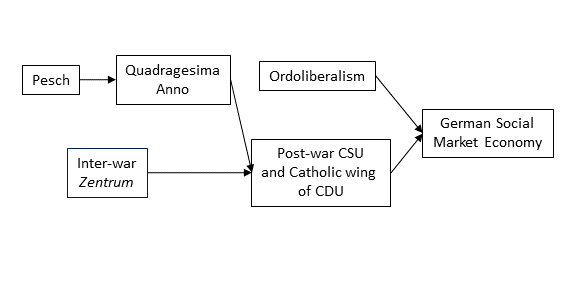
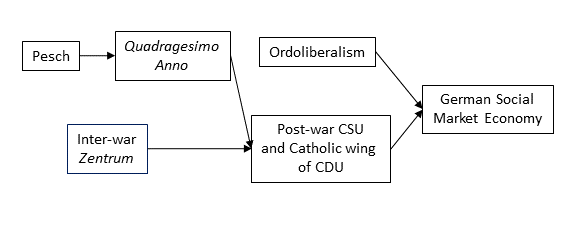
Correct typos

diff --git a/main.tex b/main.tex
@@ -28,7 +28,7 @@
 
 \doublespacing
 \begin{abstract}
-The Rev. Heinrich Pesch, S.J. was a German economist and social philosopher who was an active scholar from the 1890s to 1930s.  His work had a significant impact on a generation of German Catholic social thinkers and particularly the encyclical Quadragesmio Anno.  His method of social analysis, which he called Solidarism, was informed by Catholic Social Thought, but based on natural law principles that he argued were accessible to all people of good will.  This article argues that, although his school of thought did not survive the Nazi and World War II years, many of his ideas had a lingering effect on Economic thought for the German center-right.  This influence may be contrasted with the center-right in the English-speaking world, where there was a strong divorce between Christian social thinking and Economics.  Consequently, a gap emerged between Economic policy in Germany and Britain, that contributed to some of the divides leading to Brexit.
+The Rev. Heinrich Pesch, S.J. was a German economist and social philosopher who was an active scholar from the 1890s to 1930s.  His work had a significant impact on a generation of German Catholic social thinkers and particularly the encyclical \emph{Quadragesimo Anno}.  His method of social analysis, which he called Solidarism, was informed by Catholic Social Thought, but based on natural law principles that he argued were accessible to all people of good will.  This article argues that, although his school of thought did not survive the Nazi and World War II years, many of his ideas had a lingering effect on Economic thought for the German center-right.  This influence may be contrasted with the center-right in the English-speaking world, where there was a strong divorce between Christian social thinking and Economics.  Consequently, a gap emerged between Economic policy in Germany and Britain, that contributed to some of the divides leading to Brexit.
 
 \textbf{Keywords:}  Heinrich Pesch, Catholic Social Thought, Solidarism, Brexit
 
@@ -38,7 +38,7 @@ The Rev. Heinrich Pesch, S.J. was a German economist and social philosopher who 
 
 \section{Introduction}
 
-The Rev. Heinrich Pesch, S.J. was a German economist and social philosopher who was active as a scholar between the 1890s and 1920s.  While he is relatively little known in the English-speaking world today, his views influenced a generation of German Catholic social thinkers, culminating in Pope Pius XI’s encyclical \emph{Quadragesimo Anno}, which was published five years after his death.  The social philosophy that he espoused, called Solidarism, proceeded from his study of Economics and the relatively nascent field of modern Catholic Social Teaching.  In it, he attempted to derive a method of social analysis that would avoid the two major competing ideologies of his day, individualist liberalism, and Marxist socialism.  Against these currents of thought, he proposed the bonds of social solidarity combined with subsidiarity as a means of combatting modern ills.\medskip
+The Rev. Heinrich Pesch, S.J. was a German economist and social philosopher who was active as a scholar between the 1890s and 1920s.  While he is relatively little known in the English-speaking world today, his views influenced a generation of German Catholic social thinkers, culminating in Pope Pius XI’s encyclical \emph{Quadragesimo Anno}, which was published five years after his death.  The social philosophy that he espoused, called Solidarism, proceeded from his study of Economics and the relatively nascent field of modern Catholic Social Teaching.  In it, he attempted to derive a method of social analysis that would avoid the two major competing ideologies of his day, individualist liberalism, and Marxist socialism.  Against these currents of thought, he proposed the bonds of social solidarity combined with subsidiarity as a means of combating modern ills.\medskip
 
 As this essay will show, although the system of Solidarism did not survive the Nazi era and World War II in Germany, it had a continuing impact on the economic thinking of the center-right in Germany.  This difference is in sharp contrast to the influence of Anglican economic thought on the British center-right.  As will be demonstrated below, there was a relatively early separation of economic and theology amongst Anglicans, which caused the British right to evolve in a more laissez-faire direction.  In contrast, the work of Catholic social thinkers like Pesch helped to create a strain of economic thinking on the German right that was closely tied to theology.  We can see this influence in the types of economic institutions set up in Germany in the post-war era, such as the workers’ councils and the social market system.  As a result, Pesch’s economic thought has an enduring effect in Germany and through this channel, the economic policies of the European Union.\medskip
 
@@ -107,7 +107,7 @@ Pesch was echoing to a large degree the arguments found in \emph{Rerum Novarum} 
 
 An interesting application of the theory of the just price in Pesch’s writings is his perspective on usury.  The medieval Church and its scholars did not permit the taking of interest on a loan, but the modern Church, in practice, does not seem to object to moderate rates of interest.  Pesch saw this phenomenon, not as a change in Church doctrine, but rather as a legitimate development due to changes in economic circumstances.  His contention was that, in the medieval era, the relative lack of economic growth and investment in capital meant that the was no real opportunity cost to lending for those who had a surplus of money, and thus no justification for a return to them for doing so.  However, the development of a modern economy meant that there was a general opportunity to make gains through the investment of funds, and therefore, lending money now represented a real sacrifice on the part of those with excess funds.\footnote{For a further discussion on Pesch’s theory of interest and usury, see the appendix to chapter 5 in \citet{mulcahy1952}.}  Similarly, we can say that changes in opportunities for exchange due to an opening of trade may legitimately change the exchange values of goods, and thus, their just prices.  This perspective is different from neoclassical economists who posit a ‘time-value’ of money or ‘reward for abstinence’ that justifies the taking of interest on a loan.  Pesch argued that there is no intrinsic time-value to money, but rather that the general opportunity to make gains through investment over time is what gives money such a time-value.\medskip
 
-From the discussion above, one might be tempted to conclude that Pesch was fundamentally hostile to economic thought generally.  He claims that ``Both sciences [Economics and Ethics] have a lot to learn from each other.  However, that is not the same as saying that Economics can cut itself off from the moral law, or even abstract from it." \citep[chap. 10]{pesch2004}  Economics, as an autonomous science, contributes a lot to our understanding of the conditions for material prosperity.  But, as one educated in the Thomistic tradition, Pesch argued that truth could not contradict truth.  Something could not be simultaneously economically correct and ethically incorrect.  Hence, Economics can make a contribution to human reason by helping us to better understand the implications of policies and actions affecting material well-being, but it cannot at the same time divorce itself from Ethical imperatives.\medskip
+From the discussion above, one might be tempted to conclude that Pesch was fundamentally hostile to economic thought generally.  He claims that ``Both sciences [Economics and Ethics] have a lot to learn from each other.  However, that is not the same as saying that Economics can cut itself off from the moral law, or even abstract from it." \citep[chap. 10]{pesch2004}  Furthermore, moral theology is not sufficient by itself to create an economic system:  ``Religion cannot produce grain; it cannot do away with physical ills."\footnote{Quoted in \citet[p. 151]{mueller1951}.}  Economics, as an autonomous science, contributes a lot to our understanding of the conditions for material prosperity.  But, as one educated in the Thomistic tradition, Pesch argued that truth could not contradict truth.  Something could not be simultaneously economically correct and ethically incorrect.  Hence, Economics can make a contribution to human reason by helping us to better understand the implications of policies and actions affecting material well-being, but it cannot at the same time divorce itself from ethical imperatives.\medskip
 
 In summary, Pesch’s theory of Solidarism treated economics in a manner different from neoclassical theory.  Most relevantly for this essay are four big differences.  First, economics is a practical science in that it serves a definite end – that of providing for the material welfare of society.  Second, because economics serves that end, the performance of an economy cannot be measured solely using the satisfaction of subjective utility functions.  The economy must be evaluated in terms of that end.  Relatedly, a market-determined price is not always just.  It is just to the extent that it satisfies the demands of commutative justice and serves the ends of the economy.  Finally, because that end is communal, solidarity between different groups in society is essential to satisfying that end.  An economy cannot be simply an impersonal system of atomized individuals.  As we will see below, this difference in view set forth by Pesch would have implications that lasted into the future.
 
